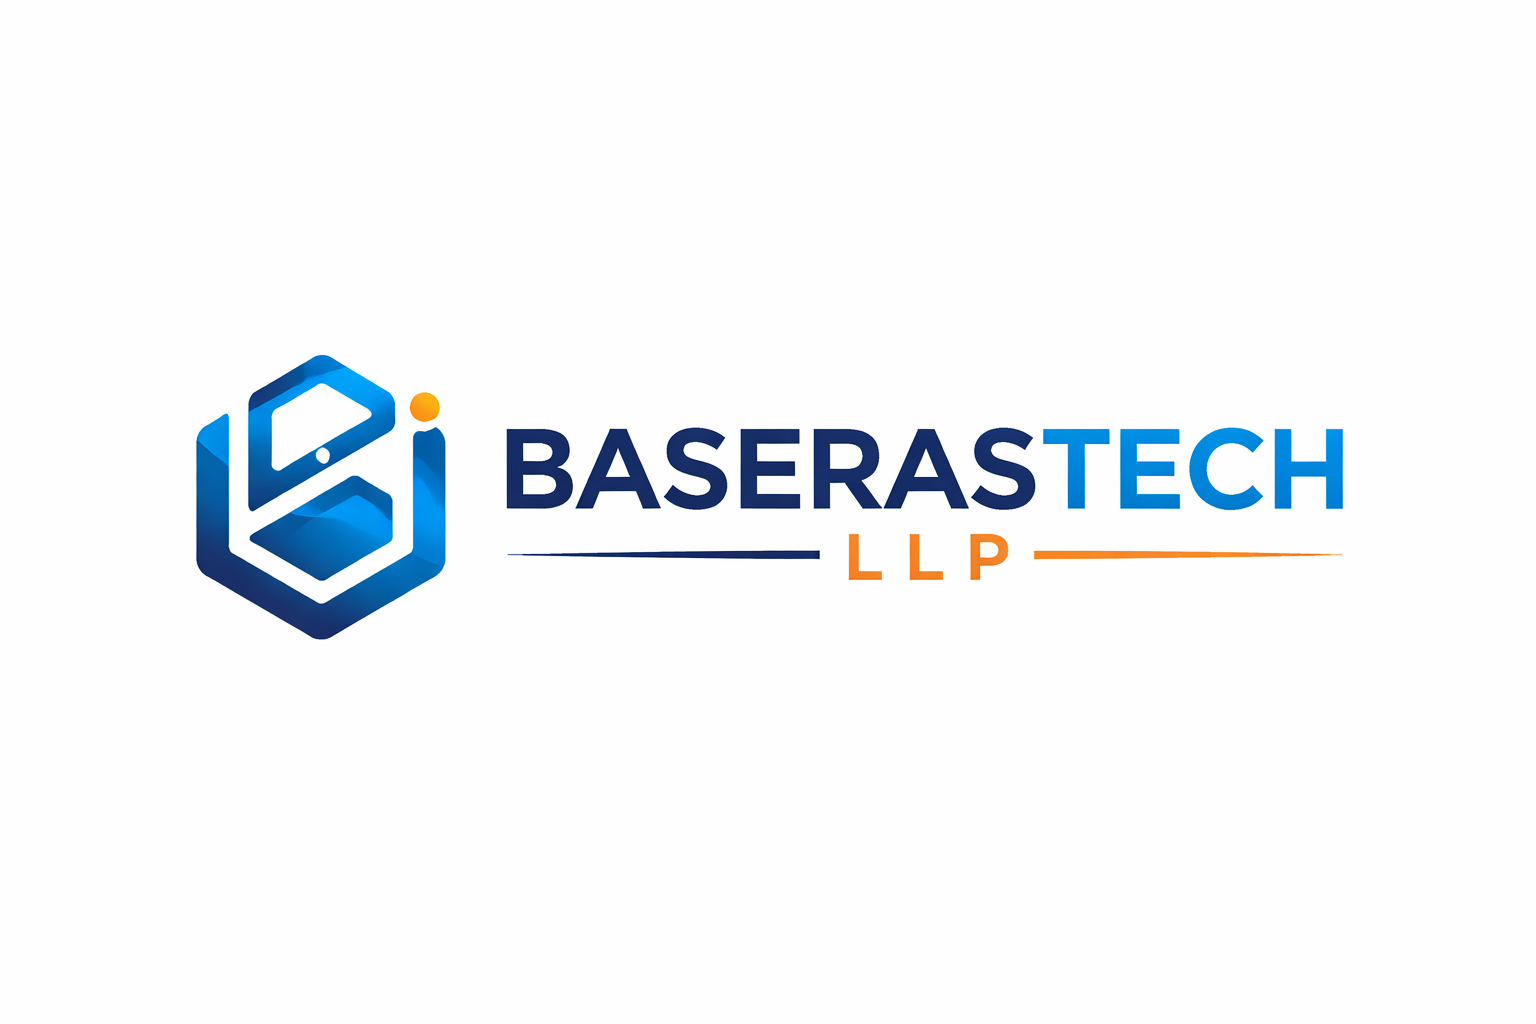
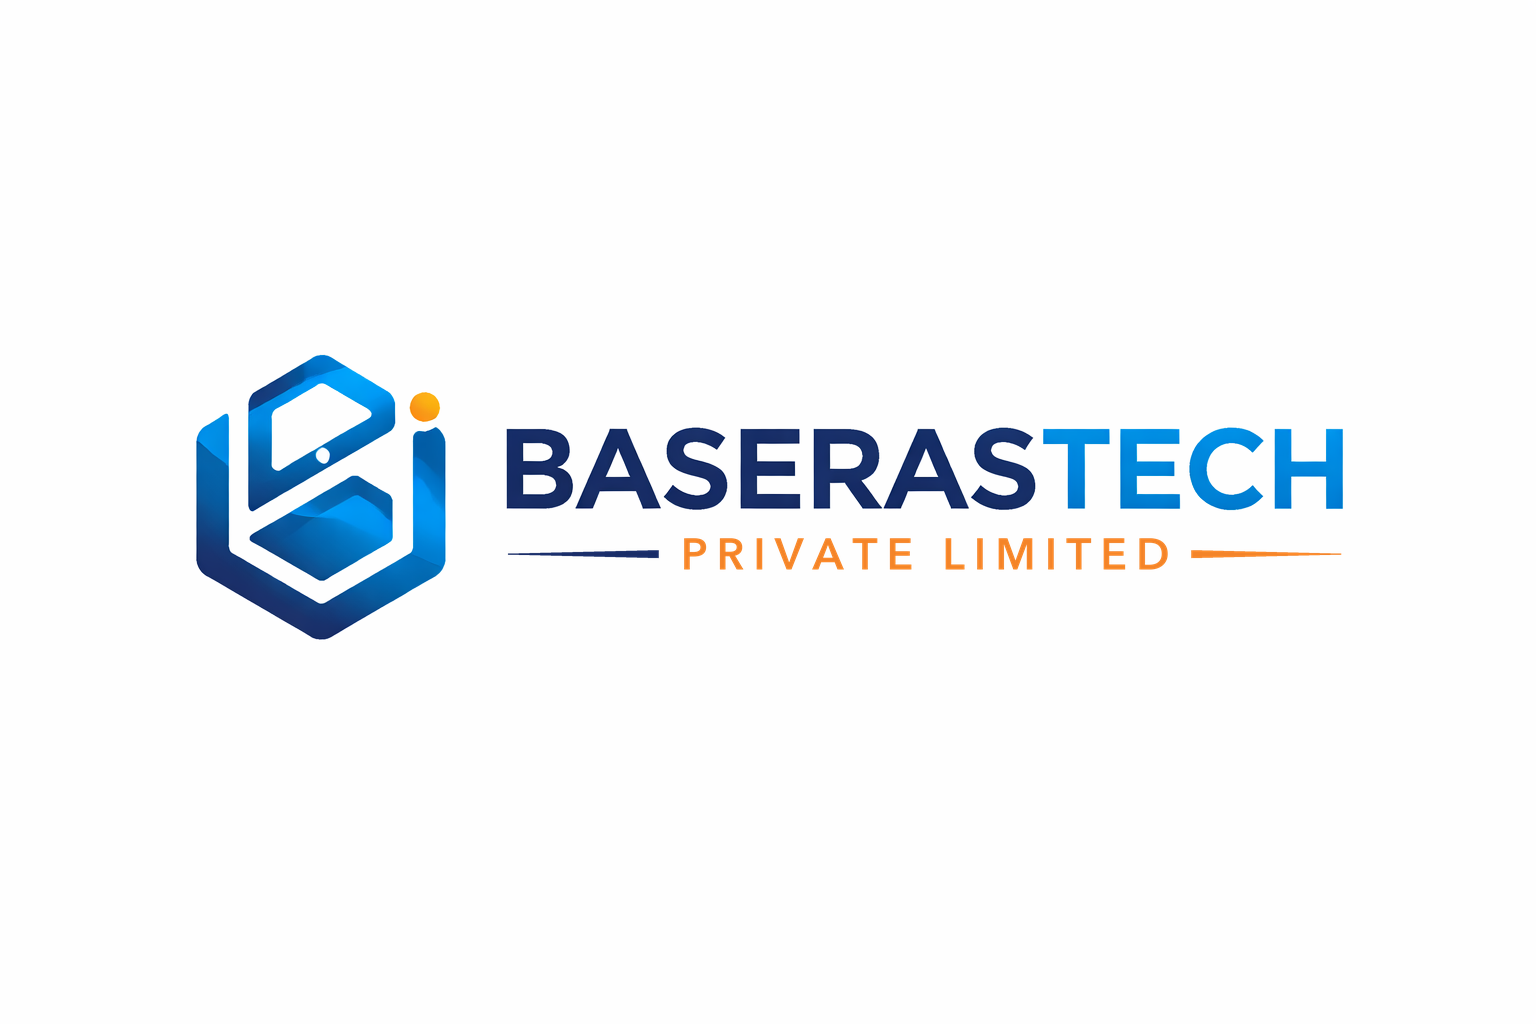
Rename BASERAS TECH LLP to BASERAS TECH PRIVATE LIMITED
Update company name across pages, meta tags, and the logo image.

Changed region(s): [[0.4062, 0.5, 0.7812, 0.5625], [0.8125, 0.5312, 0.8438, 0.5625]]

diff --git a/components/Footer.tsx b/components/Footer.tsx
@@ -13,7 +13,7 @@ const Footer: React.FC = () => {
               <div className="p-2 bg-teal rounded-lg">
                 <Cpu className="w-5 h-5 text-white" />
               </div>
-              <span className="text-xl font-bold tracking-tight uppercase">BASERAS TECH LLP</span>
+              <span className="text-xl font-bold tracking-tight uppercase">BASERAS TECH PRIVATE LIMITED</span>
             </Link>
             <p className="text-slate-300 max-w-sm mb-6 leading-relaxed">
               Reliable software engineering and business automation solutions. Specialized systems for Pharma, Education, and growing SMEs.
@@ -72,7 +72,7 @@ const Footer: React.FC = () => {
         </div>
 
         <div className="border-t border-white/10 pt-8 flex flex-col md:flex-row justify-between items-center text-sm text-slate-400">
-          <p>© {new Date().getFullYear()} BASERAS TECH LLP. All rights reserved.</p>
+          <p>© {new Date().getFullYear()} BASERAS TECH PRIVATE LIMITED. All rights reserved.</p>
           <div className="flex space-x-8 mt-4 md:mt-0">
             <a href="#" className="hover:text-skyblue transition-colors">Privacy</a>
             <a href="#" className="hover:text-skyblue transition-colors">Terms</a>

diff --git a/pages/About.tsx b/pages/About.tsx
@@ -7,11 +7,11 @@ const About: React.FC = () => {
       {/* Intro */}
       <section className="container mx-auto px-6 mb-32">
         <div className="max-w-4xl">
-          <span className="text-teal font-black tracking-widest uppercase text-xs mb-4 block">About the LLP</span>
+          <span className="text-teal font-black tracking-widest uppercase text-xs mb-4 block">About the Company</span>
           <h1 className="text-5xl md:text-7xl font-black text-navy mt-4 mb-10 leading-tight">Engineering Growth via Automation.</h1>
           <div className="grid grid-cols-1 md:grid-cols-2 gap-12 text-slate-600 text-xl font-medium leading-relaxed">
             <p>
-              BASERAS TECH LLP is an IT services powerhouse focused on building automation-driven, reliable software for critical industries. 
+              BASERAS TECH PRIVATE LIMITED is an IT services powerhouse focused on building automation-driven, reliable software for critical industries. 
             </p>
             <p>
               Our name represents our DNA: <span className="text-teal font-bold italic">Business Automation & Software Engineering – Reliable Advanced System TECH.</span>

diff --git a/index.html b/index.html
@@ -4,8 +4,8 @@
     <meta charset="UTF-8" />
     <meta name="viewport" content="width=device-width, initial-scale=1.0" />
     <link rel="icon" type="image/png" href="/fav.png" />
-    <title>BASERAS TECH LLP | Business Automation & Software Engineering</title>
-    <meta name="description" content="BASERASTECH LLP provides pharma eLogbook, GST billing, school, gym and business automation software solutions." />
+    <title>BASERAS TECH PRIVATE LIMITED | Business Automation & Software Engineering</title>
+    <meta name="description" content="BASERASTECH PRIVATE LIMITED provides pharma eLogbook, GST billing, school, gym and business automation software solutions." />
     <script src="https://cdn.tailwindcss.com"></script>
     <script>
       tailwind.config = {

diff --git a/pages/Contact.tsx b/pages/Contact.tsx
@@ -6,7 +6,7 @@ const Contact: React.FC = () => {
   const targetEmail = "ceo@baserastech.com";
 
   const handleManualEmail = () => {
-    const subject = encodeURIComponent("Business Inquiry: BASERAS TECH LLP");
+    const subject = encodeURIComponent("Business Inquiry: BASERAS TECH PRIVATE LIMITED");
     const body = encodeURIComponent("Hello BASERAS TECH Team,\n\nI am interested in your automation services. [Please add your details here].\n\nRegards,");
     window.location.href = `mailto:${targetEmail}?subject=${subject}&body=${body}`;
   };
